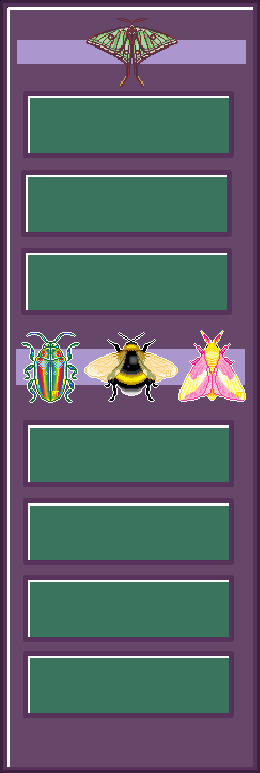
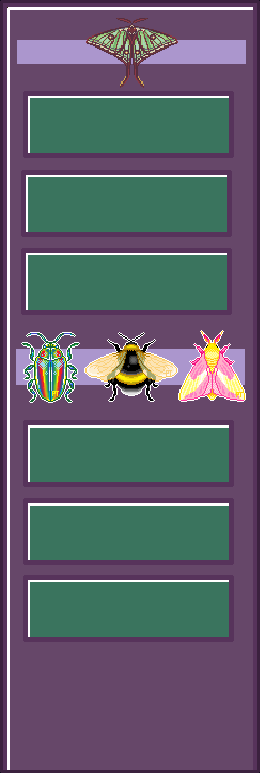
Add beetle blog post, reorder sidebar, refresh homescreen art, add recent posts widget
- New blog post introducing Orion the rainbow stag beetle, with photos
- Sidebar reordered to home/blog/art/github/instagram/random, devlog removed
- Homepage content window art refreshed from homeScreenRedo.aseprite
- New recent-posts widget in the games column, pulls last 2 posts from blog/posts.json

Changed region(s): [[0.0923, 0.8383, 0.8923, 0.9314]]

diff --git a/index.html b/index.html
@@ -41,19 +41,18 @@
   <!-- point these hrefs at real sections/pages as you add them -->
   <aside class="sidebar">
     <img class="sidebar-art" src="assets/sidebar.png" alt="">
-    <a class="side-item" style="top:12.68%;height:7.12%" href="https://github.com/b3llabug33" target="_blank" rel="noopener">github</a>
-    <a class="side-item" style="top:22.9%;height:7.12%" href="https://instagram.com/b3llabug" target="_blank" rel="noopener">instagram</a>
+    <a class="side-item" style="top:12.68%;height:7.12%" href="#">home</a>
+    <a class="side-item" style="top:22.9%;height:7.12%" href="blog.html">blog</a>
     <a class="side-item" style="top:33.0%;height:7.12%" href="art.html">art</a>
-    <a class="side-item" style="top:55.37%;height:6.99%" href="#">home</a>
-    <a class="side-item" style="top:65.46%;height:6.99%" href="#">devlog</a>
-    <a class="side-item" style="top:75.29%;height:7.12%" href="blog.html">blog</a>
-    <a class="side-item" style="top:85.12%;height:7.12%" href="#">random</a>
+    <a class="side-item" style="top:55.37%;height:6.99%" href="https://github.com/b3llabug33" target="_blank" rel="noopener">github</a>
+    <a class="side-item" style="top:65.46%;height:6.99%" href="https://instagram.com/b3llabug" target="_blank" rel="noopener">instagram</a>
+    <a class="side-item" style="top:75.29%;height:7.12%" href="#">random</a>
     <img class="hanging-butterfly" src="assets/big-butterfly.gif" alt="">
   </aside>
 
   <main class="content-window">
     <img class="content-window-bg" src="assets/content-window-bg.png" alt="">
-    <p class="content-intro">Hello !! Welcome to my website my name is Bella and I am a Junior Software Engineering major at Arizona State University!</p>
+    <p class="content-intro">Hi, I'm Bella. I'm a software engineering student at ASU, and outside of class I like building little games and making things like this site. It's meant to be a mix of portfolio and personal space — games and projects I've made, my art, and posts about life stuff, including my pet bugs. Still a work in progress, so bear with the mess as it grows.</p>
     <img class="content-programmer-badge" src="assets/programmer-blinkie.gif" alt="">
     <img class="content-miku-row" src="assets/miku-blinkie.gif" alt="">
     <img class="content-card content-card-fish" src="assets/lps-fish-stamp.gif" alt="">
@@ -77,9 +76,22 @@
       <img class="game-cover" src="assets/game-flappy-crow.png" alt="flappy crow game">
     </a>
 
+    <section class="recent-window">
+      <img class="recent-window-bg" src="assets/recent-posts-bg.png" alt="">
+      <span class="recent-window-title">~ recent posts ~</span>
+      <div class="recent-list" id="recent-list">
+        <p class="recent-empty">loading…</p>
+      </div>
+    </section>
+
   </aside>
 
 </div>
+
+<script src="blog/blog.js"></script>
+<script>
+  bellabugBlog.renderRecent(document.getElementById('recent-list'), 2);
+</script>
 
 </body>
 </html>

diff --git a/style.css b/style.css
@@ -232,7 +232,7 @@ html, body {
 .content-intro {
   position: absolute;
   left: 6%;
-  top: 12%;
+  top: 15%;
   width: 71%;
   margin: 0;
   font-family: 'November', var(--font-display);
@@ -275,6 +275,86 @@ html, body {
 }
 .content-card-fish { top: 24.626%; }
 .content-card-crossing { top: 32.925%; }
+
+/* ---------- recent posts widget (index.html, games column) ----------
+   real pixel crop from recentBlogPosts.aseprite (395x456) - sits in the
+   games flex column so it matches the game cards' width exactly. */
+.recent-window {
+  position: relative;
+  width: 100%;
+  aspect-ratio: 395 / 456;
+}
+
+.recent-window-bg {
+  display: block;
+  width: 100%;
+  height: auto;
+  image-rendering: pixelated;
+}
+
+.recent-window-title {
+  position: absolute;
+  left: 0;
+  top: 6%;
+  width: 100%;
+  text-align: center;
+  font-family: 'November', var(--font-display);
+  font-size: 0.8rem;
+  line-height: 1;
+  letter-spacing: 1px;
+  color: #f2ffe4;
+  text-shadow: 1px 1px 0 #3a1a5c;
+  pointer-events: none;
+}
+
+.recent-list {
+  position: absolute;
+  left: 5.3%;
+  top: 19%;
+  width: 89.4%;
+  height: 76%;
+  display: flex;
+  flex-direction: column;
+  gap: 8px;
+  overflow-y: auto;
+}
+
+.recent-post {
+  display: block;
+  padding: 6px 8px;
+  text-decoration: none;
+  background: rgba(20, 0, 50, 0.25);
+  border: 2px solid #d9b8ff;
+  border-radius: 2px;
+  transition: transform 0.12s ease, border-color 0.12s ease, background 0.12s ease;
+}
+.recent-post:hover {
+  transform: translate(-2px, -2px);
+  border-color: #f2ffe4;
+  background: rgba(20, 0, 50, 0.4);
+}
+
+.recent-post-date {
+  display: block;
+  font-family: var(--font-body);
+  font-size: 0.62rem;
+  letter-spacing: 0.5px;
+  color: #e4d3ff;
+}
+.recent-post-title {
+  display: block;
+  margin-top: 2px;
+  font-family: 'November', var(--font-display);
+  font-size: 0.8rem;
+  line-height: 1.2;
+  color: #f2ffe4;
+}
+
+.recent-empty {
+  margin: 0;
+  font-family: var(--font-body);
+  color: #e4d3ff;
+}
 
 /* ---------- games ---------- */
 .games {
@@ -682,7 +762,8 @@ html, body {
 @media (max-width: 1060px) {
   .layout { grid-template-columns: 1fr; }
   .games { flex-direction: row; flex-wrap: wrap; }
-  .games .game-card { flex: 1 1 220px; }
+  .games .game-card,
+  .games .recent-window { flex: 1 1 220px; }
 }
 
 @media (max-width: 500px) {

diff --git a/blog-post.html b/blog-post.html
@@ -40,13 +40,12 @@
 
   <aside class="sidebar">
     <img class="sidebar-art" src="assets/sidebar.png" alt="">
-    <a class="side-item" style="top:12.68%;height:7.12%" href="https://github.com/b3llabug33" target="_blank" rel="noopener">github</a>
-    <a class="side-item" style="top:22.9%;height:7.12%" href="https://instagram.com/b3llabug" target="_blank" rel="noopener">instagram</a>
+    <a class="side-item" style="top:12.68%;height:7.12%" href="index.html">home</a>
+    <a class="side-item side-item-active" style="top:22.9%;height:7.12%" href="blog.html">blog</a>
     <a class="side-item" style="top:33.0%;height:7.12%" href="art.html">art</a>
-    <a class="side-item" style="top:55.37%;height:6.99%" href="index.html">home</a>
-    <a class="side-item" style="top:65.46%;height:6.99%" href="#">devlog</a>
-    <a class="side-item side-item-active" style="top:75.29%;height:7.12%" href="blog.html">blog</a>
-    <a class="side-item" style="top:85.12%;height:7.12%" href="#">random</a>
+    <a class="side-item" style="top:55.37%;height:6.99%" href="https://github.com/b3llabug33" target="_blank" rel="noopener">github</a>
+    <a class="side-item" style="top:65.46%;height:6.99%" href="https://instagram.com/b3llabug" target="_blank" rel="noopener">instagram</a>
+    <a class="side-item" style="top:75.29%;height:7.12%" href="#">random</a>
     <img class="hanging-butterfly" src="assets/big-butterfly.gif" alt="">
   </aside>
 

diff --git a/blog.html b/blog.html
@@ -40,13 +40,12 @@
 
   <aside class="sidebar">
     <img class="sidebar-art" src="assets/sidebar.png" alt="">
-    <a class="side-item" style="top:12.68%;height:7.12%" href="https://github.com/b3llabug33" target="_blank" rel="noopener">github</a>
-    <a class="side-item" style="top:22.9%;height:7.12%" href="https://instagram.com/b3llabug" target="_blank" rel="noopener">instagram</a>
+    <a class="side-item" style="top:12.68%;height:7.12%" href="index.html">home</a>
+    <a class="side-item side-item-active" style="top:22.9%;height:7.12%" href="blog.html">blog</a>
     <a class="side-item" style="top:33.0%;height:7.12%" href="art.html">art</a>
-    <a class="side-item" style="top:55.37%;height:6.99%" href="index.html">home</a>
-    <a class="side-item" style="top:65.46%;height:6.99%" href="#">devlog</a>
-    <a class="side-item side-item-active" style="top:75.29%;height:7.12%" href="blog.html">blog</a>
-    <a class="side-item" style="top:85.12%;height:7.12%" href="#">random</a>
+    <a class="side-item" style="top:55.37%;height:6.99%" href="https://github.com/b3llabug33" target="_blank" rel="noopener">github</a>
+    <a class="side-item" style="top:65.46%;height:6.99%" href="https://instagram.com/b3llabug" target="_blank" rel="noopener">instagram</a>
+    <a class="side-item" style="top:75.29%;height:7.12%" href="#">random</a>
     <img class="hanging-butterfly" src="assets/big-butterfly.gif" alt="">
   </aside>
 

diff --git a/art.html b/art.html
@@ -40,13 +40,12 @@
 
   <aside class="sidebar">
     <img class="sidebar-art" src="assets/sidebar.png" alt="">
-    <a class="side-item" style="top:12.68%;height:7.12%" href="https://github.com/b3llabug33" target="_blank" rel="noopener">github</a>
-    <a class="side-item" style="top:22.9%;height:7.12%" href="https://instagram.com/b3llabug" target="_blank" rel="noopener">instagram</a>
+    <a class="side-item" style="top:12.68%;height:7.12%" href="index.html">home</a>
+    <a class="side-item" style="top:22.9%;height:7.12%" href="blog.html">blog</a>
     <a class="side-item" style="top:33.0%;height:7.12%" href="art.html">art</a>
-    <a class="side-item" style="top:55.37%;height:6.99%" href="index.html">home</a>
-    <a class="side-item" style="top:65.46%;height:6.99%" href="#">devlog</a>
-    <a class="side-item" style="top:75.29%;height:7.12%" href="blog.html">blog</a>
-    <a class="side-item" style="top:85.12%;height:7.12%" href="#">random</a>
+    <a class="side-item" style="top:55.37%;height:6.99%" href="https://github.com/b3llabug33" target="_blank" rel="noopener">github</a>
+    <a class="side-item" style="top:65.46%;height:6.99%" href="https://instagram.com/b3llabug" target="_blank" rel="noopener">instagram</a>
+    <a class="side-item" style="top:75.29%;height:7.12%" href="#">random</a>
     <img class="hanging-butterfly" src="assets/big-butterfly.gif" alt="">
   </aside>
 

diff --git a/blog/blog.js b/blog/blog.js
@@ -291,10 +291,37 @@
       .catch(function () { fail("couldn’t load that post."); });
   }
 
+  /* ---- widget: last N posts, used on index.html under the intro ----- */
+  function renderRecent(el, count) {
+    fetch("blog/posts.json", { cache: "no-cache" })
+      .then(function (r) { return r.json(); })
+      .then(function (posts) {
+        posts.sort(function (a, b) {
+          return (b.date || "").localeCompare(a.date || "");
+        });
+        var recent = posts.slice(0, count);
+        if (!recent.length) {
+          el.innerHTML = '<p class="recent-empty">no posts yet !!</p>';
+          return;
+        }
+        el.innerHTML = recent.map(function (p) {
+          return '<a class="recent-post" href="blog-post.html?slug=' +
+            encodeURIComponent(p.slug) + '">' +
+            '<span class="recent-post-date">' + esc(fmtDate(p.date)) + "</span>" +
+            '<span class="recent-post-title">' + esc(p.title || p.slug) + "</span>" +
+            "</a>";
+        }).join("");
+      })
+      .catch(function () {
+        el.innerHTML = '<p class="recent-empty">couldn’t load posts.</p>';
+      });
+  }
+
   window.bellabugBlog = {
     mdToHtml: mdToHtml,
     attachScrollbar: attachScrollbar,
     renderList: renderList,
-    renderPost: renderPost
+    renderPost: renderPost,
+    renderRecent: renderRecent
   };
 })();

diff --git a/blog/posts/meet-orion.md b/blog/posts/meet-orion.md
@@ -1,0 +1,5 @@
+![orion](blog/images/orion-1.jpg)
+
+This is my beetle Orion !!! She is a 2 month old rainbow stag beetle who I have raised since she was a tiny larvae. Rainbow stag beetles are nocturnal so I mainly see her running around her enclosure and climbing leaves at night, she really enjoys beetle jelly and bananas.
+
+![orion](blog/images/orion-2.jpg)
